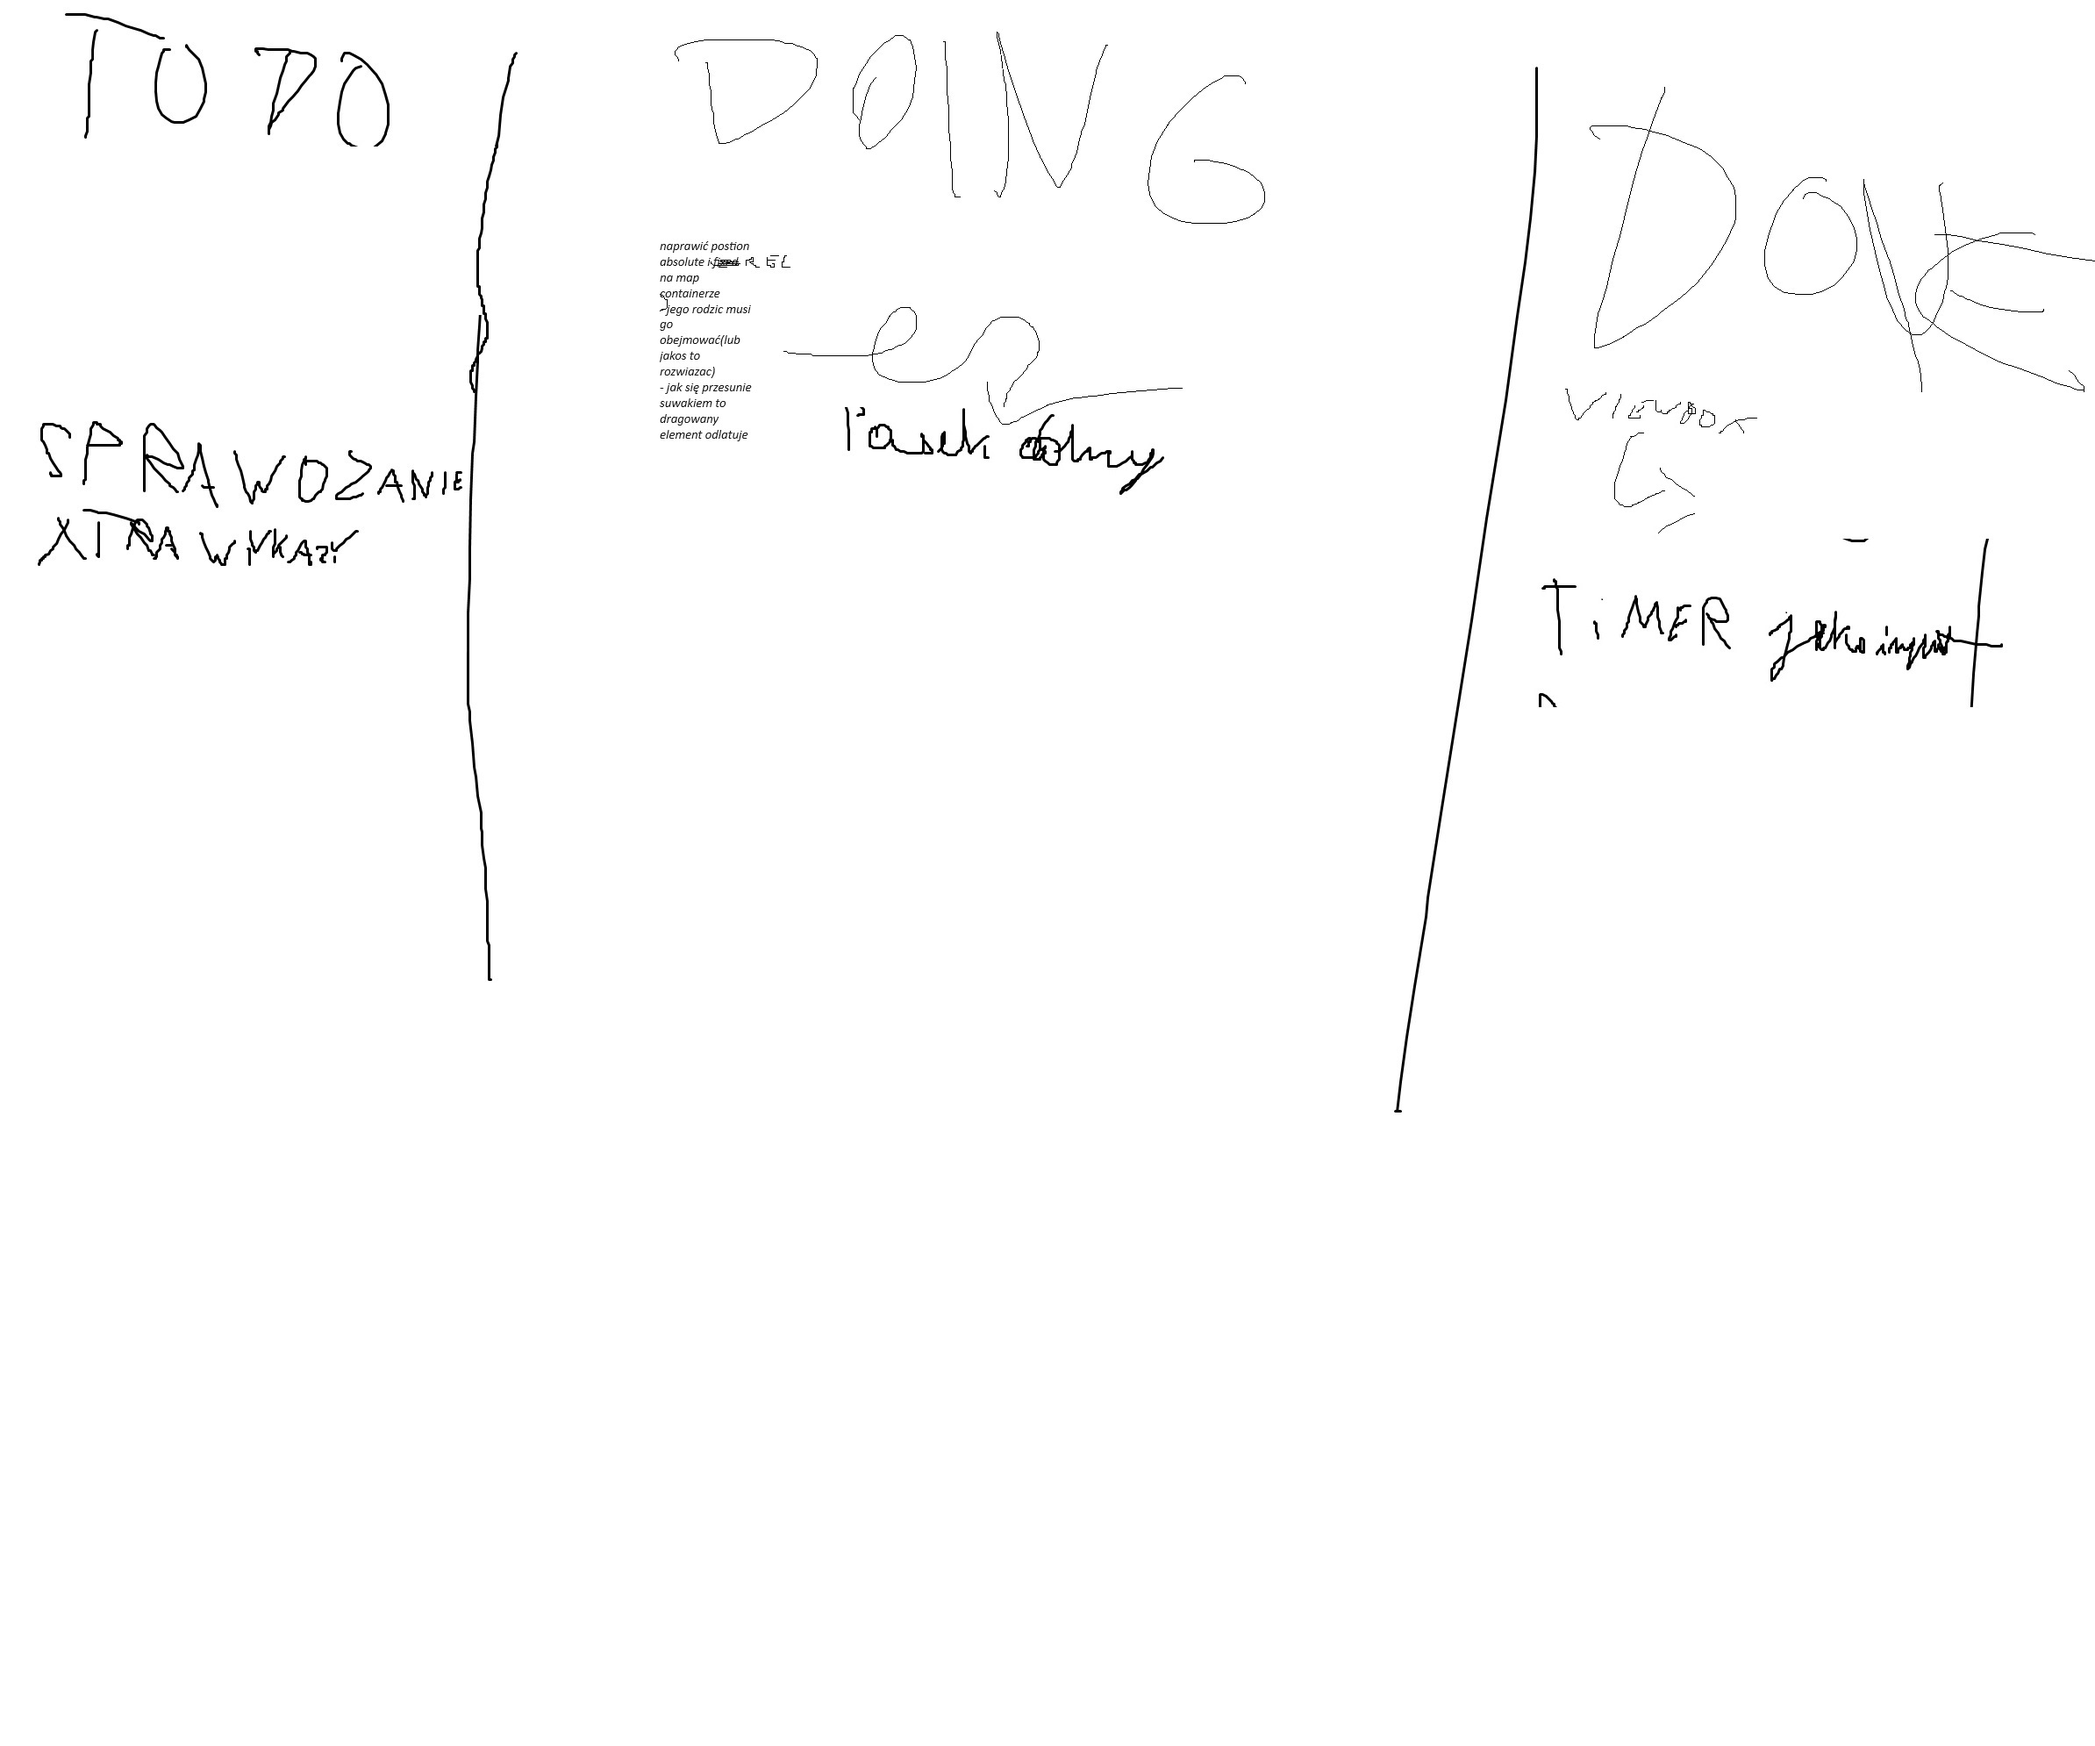
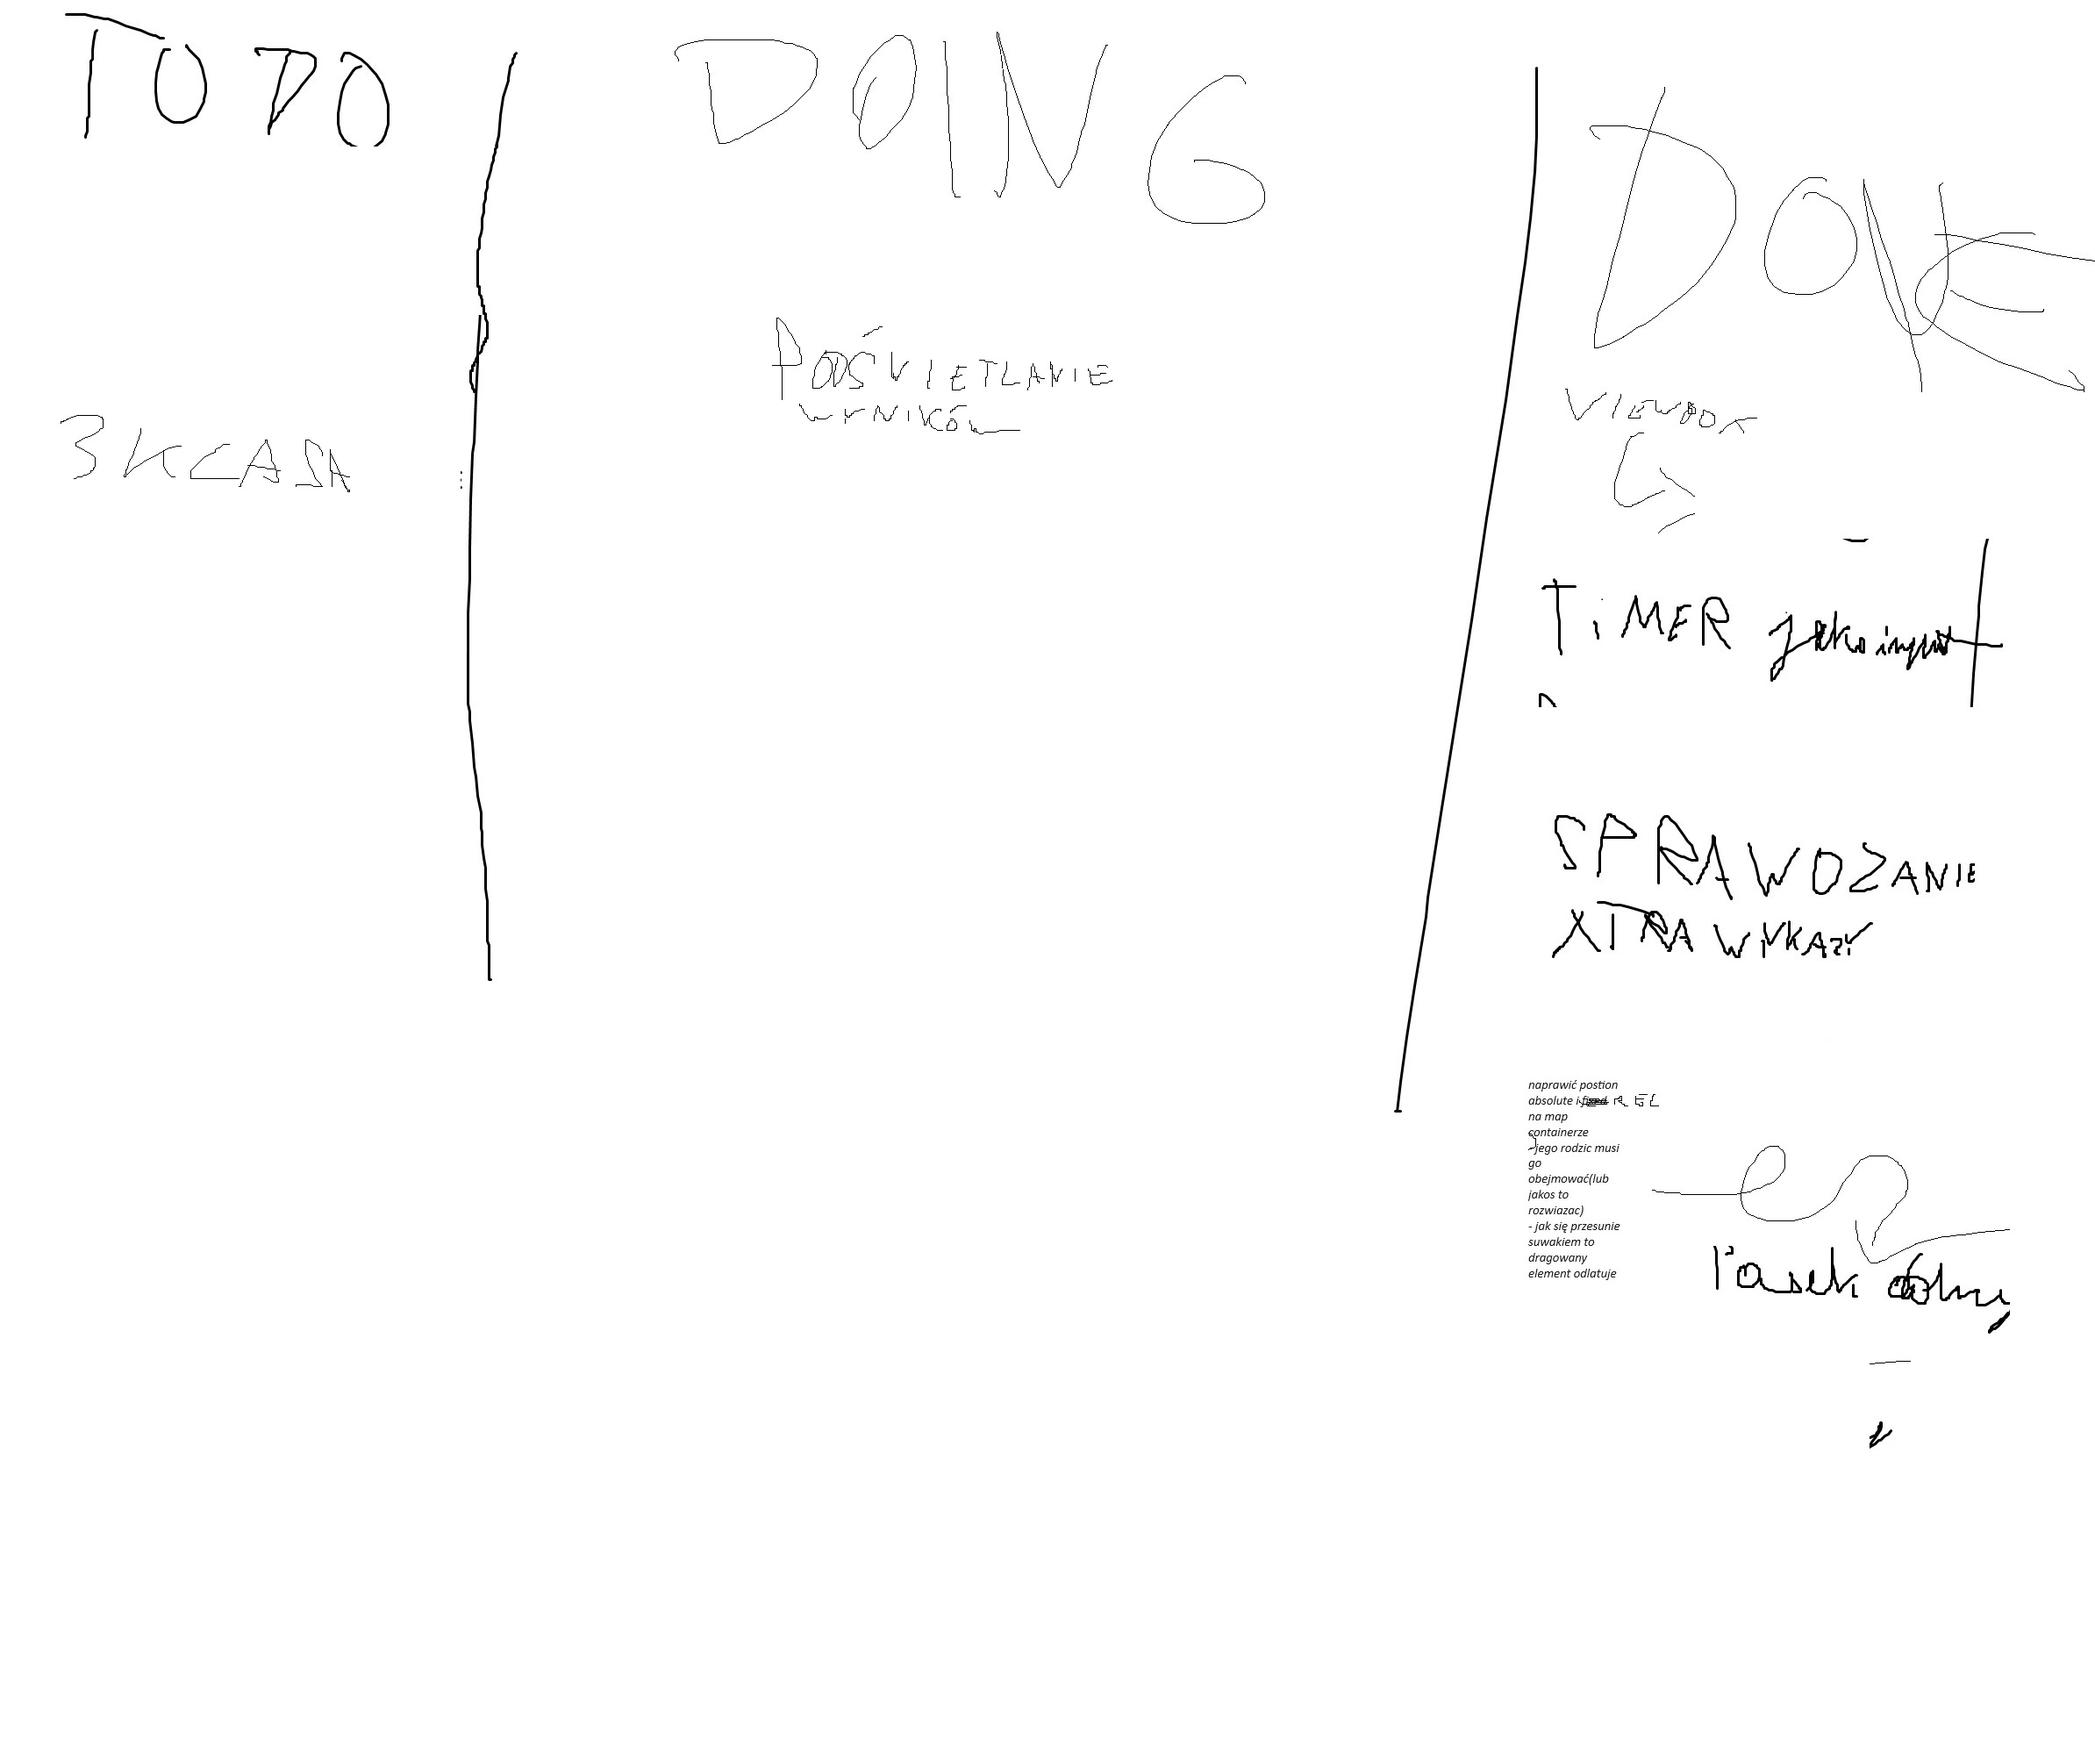
po przeniesieniu liczby na mape dalej wiadomo ktory obiekt mial jaka liczbe

diff --git a/js/dragAndDrop.js b/js/dragAndDrop.js
@@ -10,6 +10,17 @@ const DragAndDrop = {
     ev.preventDefault();
     console.log("pgX", ev.pageX)
     console.log("pgY", ev.pageY)
+    
+    const markup = document.createElement('span')
+    markup.classList.add('after-drag-number')
+    markup.innerHTML = document.getElementById(ev.dataTransfer.getData("text")).innerHTML 
+    console.log('markup: ', markup)
+    //console.log(markup, document.getElementById(ev.dataTransfer.getData("text")).innerHTML, `DT${parseFloat(document.getElementById(ev.dataTransfer.getData("text")).innerHTML)-1}`, document.getElementById(`DT${parseFloat(document.getElementById(ev.dataTransfer.getData("text")).innerHTML)-1}`).parentNode)
+    //if(document.getElementById(`DT${parseFloat(document.getElementById(ev.dataTransfer.getData("text")).innerHTML)-1}`).parentNode.childElementCount == 2){}
+    console.log('aa:',document.getElementById(`DT${parseFloat(document.getElementById(ev.dataTransfer.getData("text")).innerHTML)-1}`).parentNode.firstChild)
+    if(!document.getElementById(`DT${parseFloat(document.getElementById(ev.dataTransfer.getData("text")).innerHTML)-1}`).parentNode.firstChild.classList.contains('after-drag-number')){
+    document.getElementById(`DT${parseFloat(document.getElementById(ev.dataTransfer.getData("text")).innerHTML)-1}`).parentNode.insertBefore(markup, document.getElementById(`DT${parseFloat(document.getElementById(ev.dataTransfer.getData("text")).innerHTML)-1}`).parentNode.firstChild)
+    }
     let newDiv = document.getElementById(ev.dataTransfer.getData("text"))
     newDiv.addEventListener('dragstart', (e) => {
         DragAndDrop.drag(e)

diff --git a/css/style.css b/css/style.css
@@ -70,6 +70,11 @@ html, body {
     padding: 3px 5px 3px 5px;
     cursor: grab;
 }
+.after-drag-number{
+    border-radius: 5px;
+    margin: 0px 7px 0px 2px;
+    padding: 3px 5px 3px 5px;
+}
 
 .startScreen {
     /* postion fixed + place poza map containerem jesli ma byc na full ekran */
